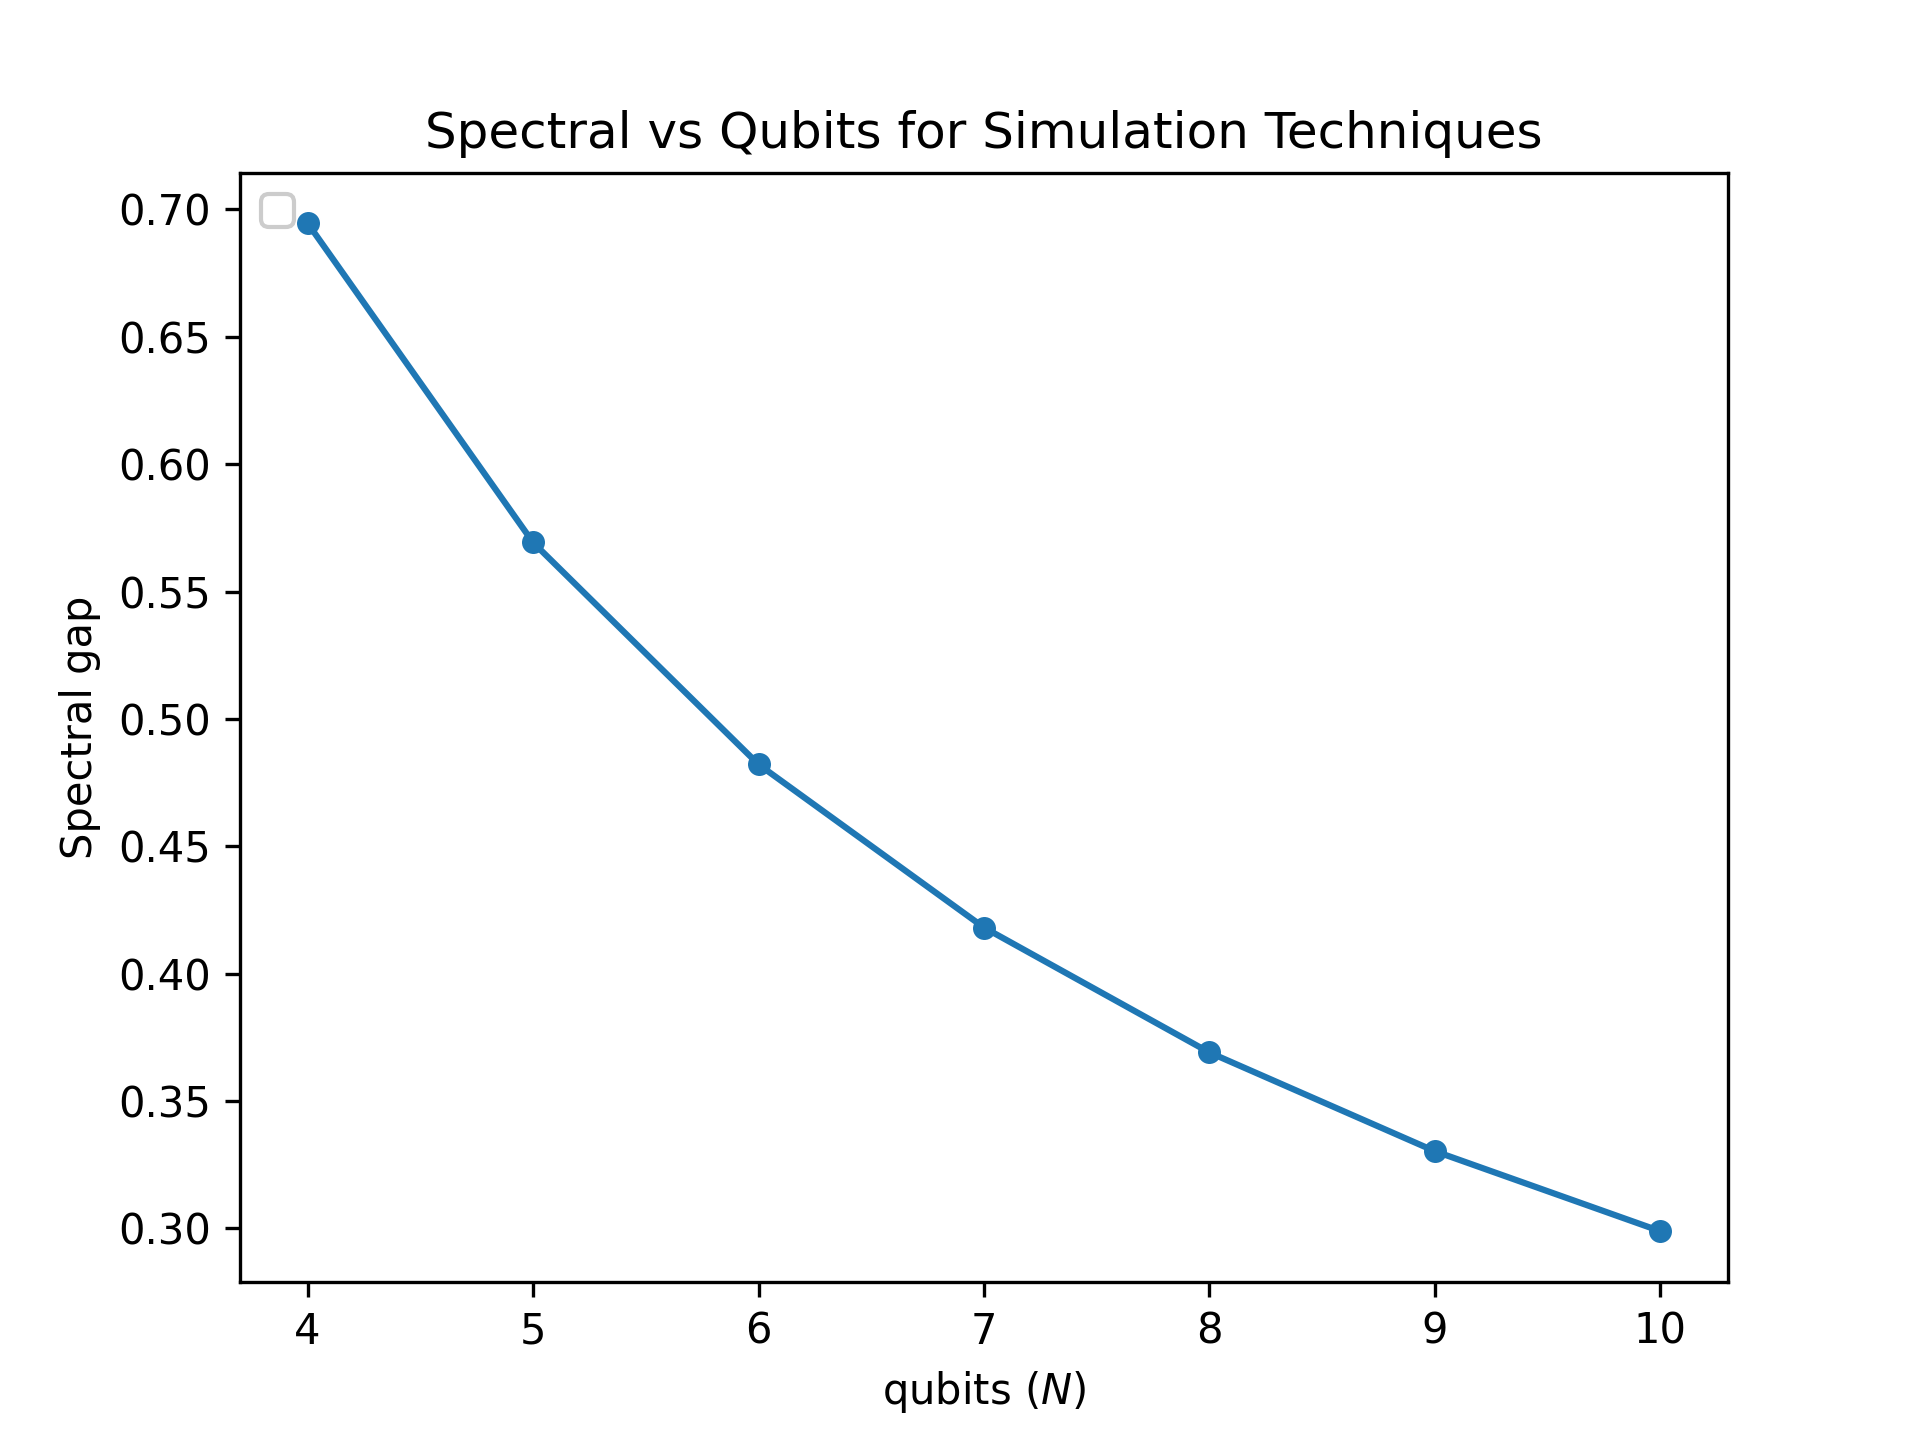
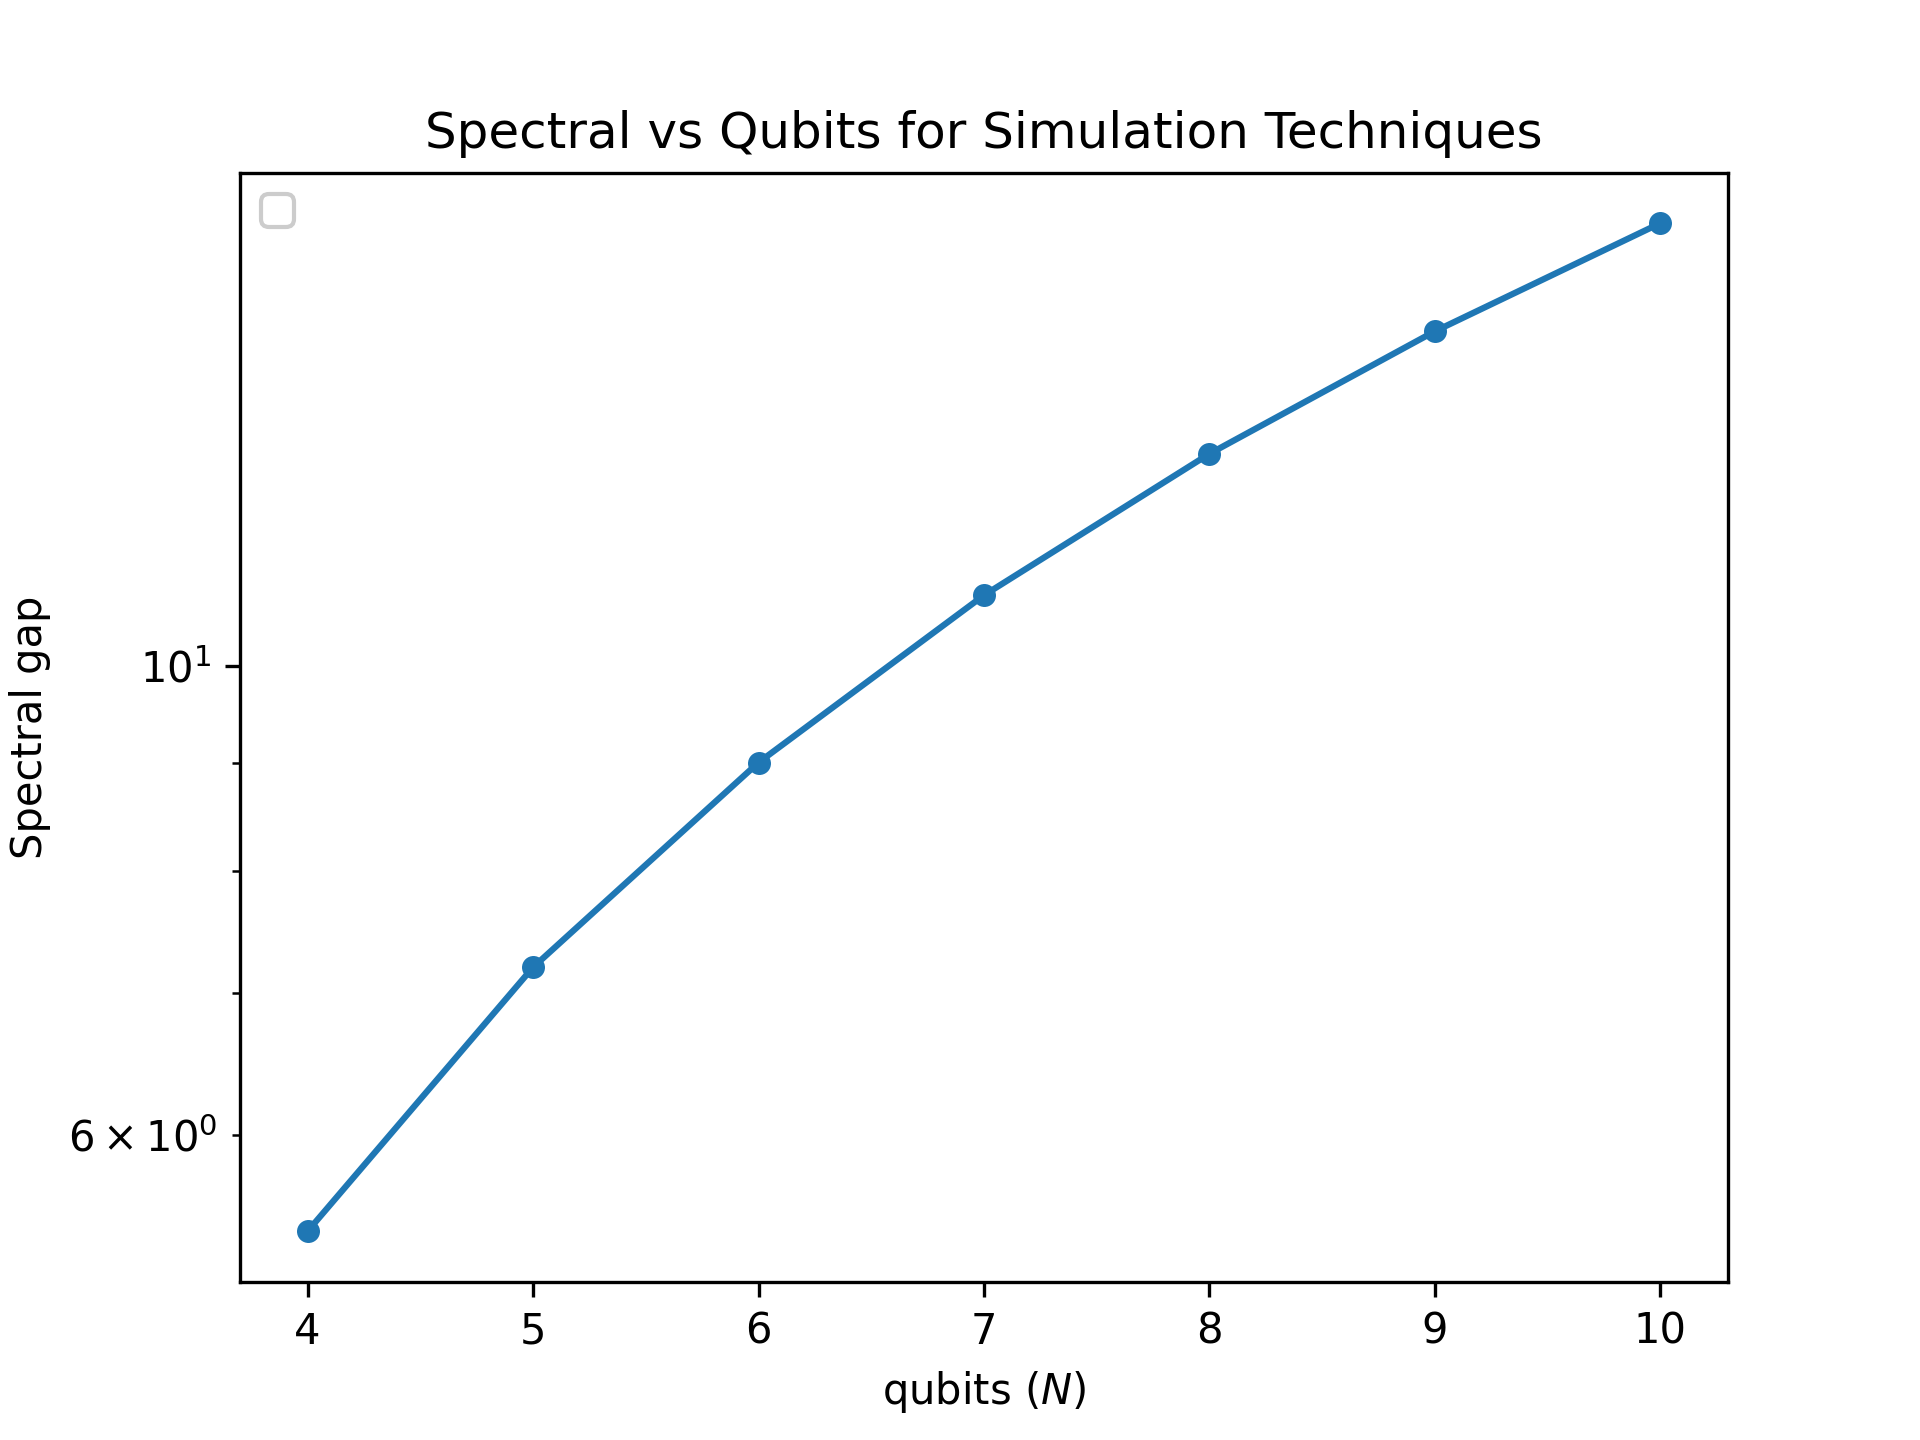
multi plots needs better aesthetics

diff --git a/ising/benchmark/multi_gate_modern.py b/ising/benchmark/multi_gate_modern.py
@@ -1,0 +1,118 @@
+import matplotlib.pyplot as plt
+import numpy as np
+import seaborn as sns
+
+from ising.hamiltonian import parametrized_ising, Hamiltonian
+import ising.benchmark.groundstate_depth as groundstate_depth
+
+from typing import Callable
+
+methods: dict[str, Callable[[Hamiltonian, float, float, float], int]] = {
+    # "Ge et al": groundstate_depth.ge_et_al,
+    # "Phase Estimation and Amplitude Amplification": groundstate_depth.phase_estimation,
+    # "Poulin et al": groundstate_depth.poulin_et_al,
+    "Lin et al": groundstate_depth.lin_et_al,
+    "Truncated Taylor Series": groundstate_depth.truncated_taylor,
+    # "First Order Trotter": groundstate_depth.first_order_trotter,
+    # "qDRIFT": groundstate_depth.qdrift,
+}
+
+colors: dict[str, str] = {
+    "Ge et al": "blue",
+    "Phase Estimation and Amplitude Amplification": "red",
+    "Poulin et al": "black",
+    "Lin et al": "red",
+    "Truncated Taylor Series": "blue",
+    "First Order Trotter": "purple",
+    "qDRIFT": "yellow",
+}
+
+
+def plot_qubit_gate_count(
+    h_vals: list[list[float]],
+    start_qubit: int,
+    end_qubit: int,
+    obs_norm: float,
+    eps: float,
+    eeta: float,
+    point_count: int,
+):
+    row, col = len(h_vals), len(h_vals[0])
+    fig, axes = plt.subplots(row, col, sharex=True)
+
+    for r, h_row in enumerate(h_vals):
+        for c, h_val in enumerate(h_row):
+            print(f"Running for h={h_val}")
+
+            ax = axes[r, c]
+            qubit_points = [int(x) for x in np.linspace(start_qubit, end_qubit, point_count)]
+
+            results: dict[str, list[int]] = {}
+            for method in methods.keys():
+                results[method] = []
+
+            for qubit in qubit_points:
+                ham = parametrized_ising(qubit, h_val)
+
+                for method, fn in methods.items():
+                    result = fn(ham, eeta, eps, obs_norm)
+                    results[method].append(result)
+
+            for method in methods.keys():
+                result = results[method]
+                sns.lineplot(
+                    y=result,
+                    x=qubit_points,
+                    ax=ax,
+                    label=method,
+                    color=colors[method],
+                    alpha=0.6,
+                )
+
+                sns.scatterplot(y=result, x=qubit_points, ax=ax, color=colors[method], s=5)
+
+            # ax.invert_xaxis()
+            # ax.set_xscale("log")
+            ax.set_yscale("log")
+            # ax.set_ylabel(r"$\log_{10}(\text{gate count})$")
+            ax.get_legend().remove()
+            ax.set_title(f"h={h_val}")
+
+    # fig.tick_params(labelcolor='none', which='both', top=False, bottom=False, left=False, right=False)
+    # ax.legend(loc='upper right')
+    lines_labels = [ax.get_legend_handles_labels() for ax in fig.axes][:1]
+    lines, labels = [sum(lol, []) for lol in zip(*lines_labels)]
+    fig.legend(lines, labels)
+
+    fig.tight_layout()
+    # fig.xlabel(r"$\text{qubits}(N)$")
+    # fig.ylabel("Gate Count")
+    # plt.set_title("Gate Count vs Qubits for Simulation Techniques")
+    # ax.legend(loc="upper left", framealpha=1)
+    # plt.legend()
+    fig.supxlabel(r"$\text{qubits}(N)$")
+    fig.supylabel("Gate Count")
+    diagram_name = "plots/benchmark/multi_modern.png"
+    print(f"Saving diagram at:{diagram_name}")
+    plt.savefig(diagram_name, dpi=300)
+
+
+def main():
+    # h_vals = [[0.01, 0.1, 0.9], [1.01, 1.1, 10]]
+    h_vals = [[0.9, 0.99, 1.01], [0.1, 0.8, 2]]
+    start_qubit, end_qubit = 20, 200
+    point_count = 10
+    obs_norm = 1
+    eps = 1e-3
+    eeta = 0.2
+
+    plot_qubit_gate_count(
+        h_vals, start_qubit, end_qubit, obs_norm, eps, eeta, point_count
+    )
+
+
+def test_main():
+    main()
+
+if __name__ == "__main__":
+    main()

diff --git a/ising/benchmark/spectral_gap.py b/ising/benchmark/spectral_gap.py
@@ -10,7 +10,8 @@ def plot_spectral_gap(h_val: float, start_qubit: int, end_qubit: int, point_coun
 
     qubit_points = [int(x) for x in np.linspace(start_qubit, end_qubit, point_count)]
 
-    gap = [parametrized_ising(qubit, h_val).spectral_gap for qubit in qubit_points]
+    gap = [parametrized_ising(qubit, h_val).approx_spectral_gap for qubit in qubit_points]
+    print(gap)
     sns.lineplot(
         y=gap,
         x=qubit_points,
@@ -21,7 +22,7 @@ def plot_spectral_gap(h_val: float, start_qubit: int, end_qubit: int, point_coun
 
     # ax.invert_xaxis()
     # ax.set_xscale("log")
-    # ax.set_yscale("log")
+    ax.set_yscale("log")
     ax.set_xlabel(r"$\text{qubits }(N)$")
     ax.set_ylabel(r"Spectral gap")
 
@@ -35,7 +36,7 @@ def plot_spectral_gap(h_val: float, start_qubit: int, end_qubit: int, point_coun
 
 
 if __name__ == "__main__":
-    h_val = 1
+    h_val = 0.1
     start_qubit, end_qubit = 4, 10
     point_count = 10
 

diff --git a/ising/hamiltonian/ising_one.py b/ising/hamiltonian/ising_one.py
@@ -68,7 +68,7 @@ def general_grouping(ops: Union[list[Pauli], PauliList]) -> list[list[Pauli]]:
 
 
 def parametrized_ising(
-    qubits: int, h: Union[Parameter, float], j: float = -1, normalize: bool = True
+    qubits: int, h: Union[Parameter, float], J: float = -1, normalize: bool = True
 ) -> Hamiltonian:
     """
     One dimensional Transverse-field Ising model parameterized by external
@@ -89,7 +89,7 @@ def parametrized_ising(
     i_n = ["I"] * qubits
 
     zz_terms = []
-    zz_coeffs = np.array([j] * (qubits - 1))
+    zz_coeffs = np.array([J] * (qubits - 1))
     for i in range(qubits - 1):
         j = i + 1
         p_i = i_n
@@ -117,4 +117,5 @@ def parametrized_ising(
             zz_terms + x_terms, np.concatenate([zz_coeffs, x_coeffs])
         ),
         normalized=normalize,
+        _approx_spectral_gap=2*abs(J)*abs(1 - h)
     )

diff --git a/ising/benchmark/gate_count_modern.py b/ising/benchmark/gate_count_modern.py
@@ -8,7 +8,7 @@ import ising.benchmark.groundstate_depth as groundstate_depth
 from typing import Callable
 
 methods: dict[str, Callable[[Hamiltonian, float, float, float], int]] = {
-    "Ge et al": groundstate_depth.ge_et_al,
+    # "Ge et al": groundstate_depth.ge_et_al,
     # "Phase Estimation and Amplitude Amplification": groundstate_depth.phase_estimation,
     # "Poulin et al": groundstate_depth.poulin_et_al,
     "Lin et al": groundstate_depth.lin_et_al,
@@ -82,12 +82,12 @@ def plot_qubit_gate_count(
 
 
 if __name__ == "__main__":
-    h_val = 1
-    start_qubit, end_qubit = 4, 30
+    h_val = 10
+    start_qubit, end_qubit = 4, 20
     point_count = 10
     obs_norm = 1
     eps = 1e-3
-    eeta = 0.6
+    eeta = 0.2
 
     plot_qubit_gate_count(
         h_val, start_qubit, end_qubit, obs_norm, eps, eeta, point_count

diff --git a/ising/hamiltonian/hamiltonian.py b/ising/hamiltonian/hamiltonian.py
@@ -94,6 +94,10 @@ class Hamiltonian:
 
     @property
     def spectral_gap(self) -> float:
+        """
+        WARNING: This code is flawed since due to precision error and
+        degeneracy.
+        """
         if self._spectral_gap is None:
             sorted_eigval = sorted(self.eig_val)
             self._spectral_gap = np.abs(sorted_eigval[0] - sorted_eigval[1])
@@ -119,6 +123,7 @@ class Hamiltonian:
 def substitute_parameter(ham: Hamiltonian, para: Parameter, val: float) -> Hamiltonian:
     new_sparse_repr = ham.sparse_repr.assign_parameters({para: val})
     return Hamiltonian(sparse_repr=new_sparse_repr, normalized=ham.normalized)
+
 
 def sparse_spectral_gap(ham: Hamiltonian) -> float:
     """
